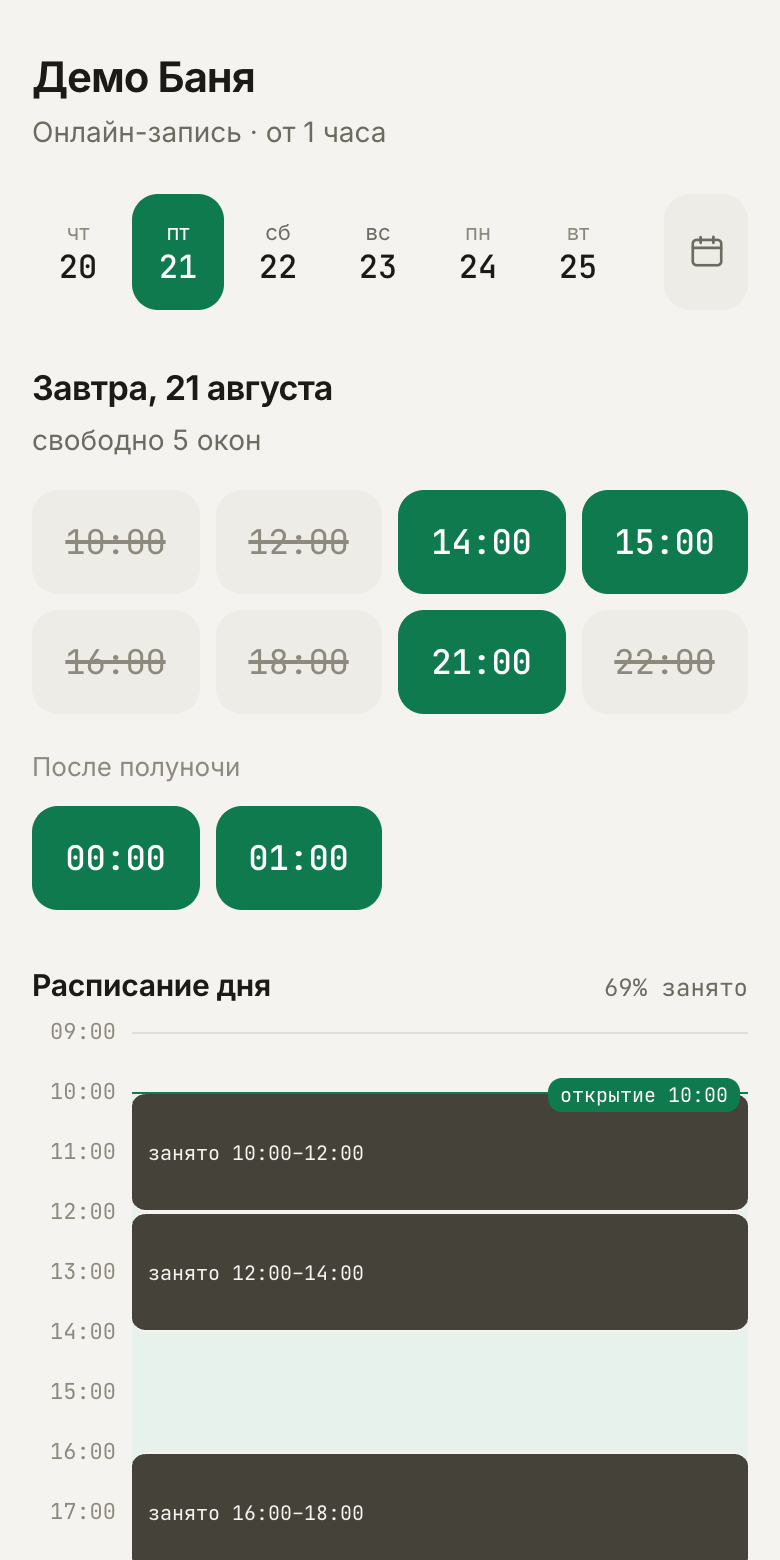
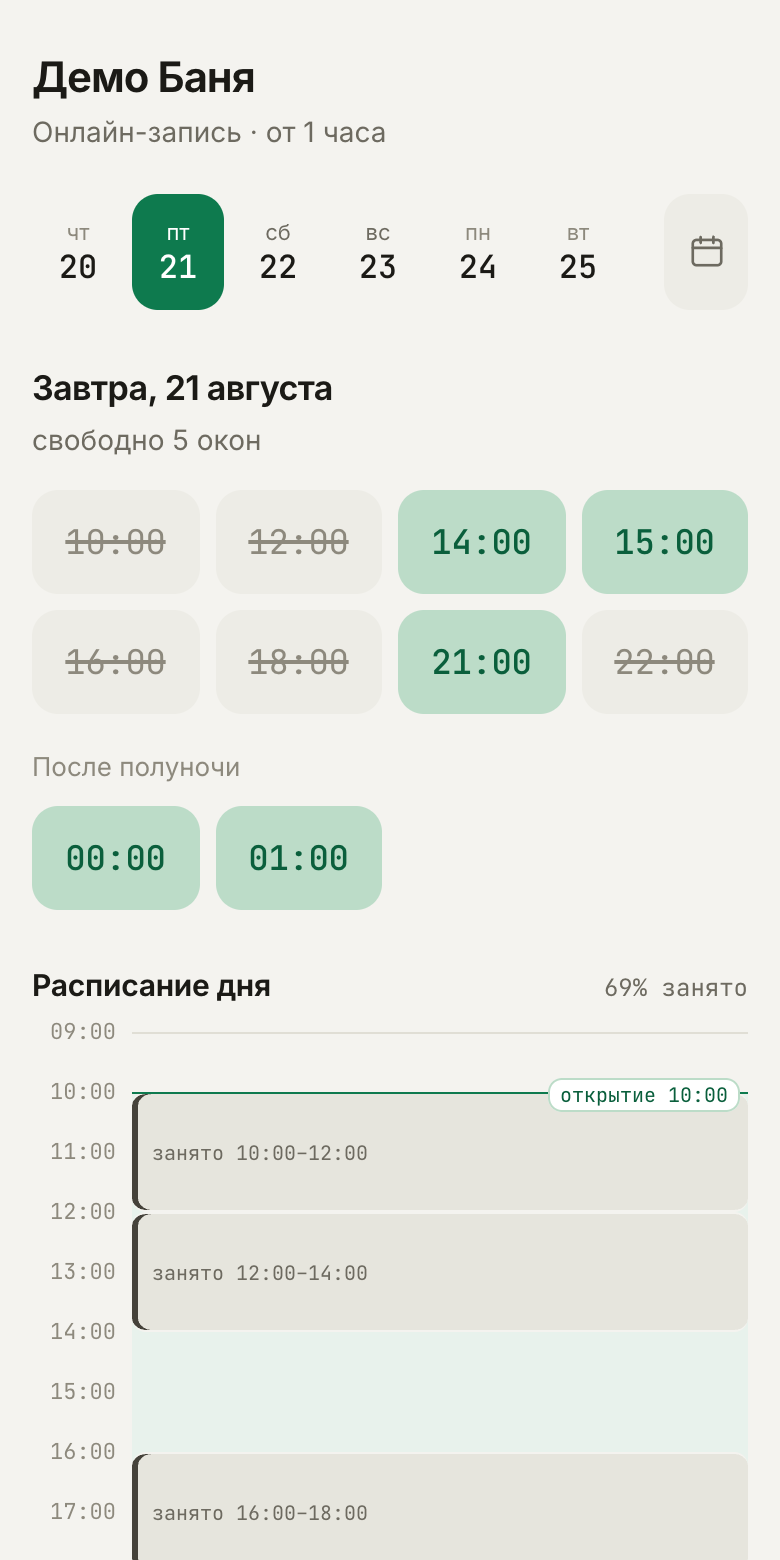
lighten the client page: contrast without weight
Предыдущая правка перелила краски. Контраст между свободным и занятым я
поднял сплошной заливкой акцентом — на четырнадцати чипах (после перехода
на часовой шаг их стало вдвое больше) страница превратилась в стену
зелёного, а занятое время в календаре — в чёрные плиты, перетягивающие на
себя весь экран.

Баланс не в плотности, а в светлоте и цвете текста:

- свободное время — светлая зелёная заливка с насыщенным зелёным временем;
  занятое — бледная бумага с зачёркнутым. Различие видно краем глаза, но
  страница остаётся бумагой, а не плашкой;
- занятое в календаре — плотная бумага с чернильной полосой слева, как в
  календаре владельца. Занятое время — не то, на что клиент должен смотреть;
- подписи открытия и закрытия стали светлыми: границу и так видно линией,
  а две сплошные зелёные плашки добавляли веса;
- «Нужно другое время» осталось кнопкой, но с нейтральной рамкой: акцентная
  спорила со свободным временем за внимание.

Сплошным акцентом теперь залиты ровно два элемента — выбранный день в
полосе дат и главная кнопка в листе бронирования. Это и есть иерархия.

Отдельно: десктопное правило для сетки чипов лежало в файле выше базового
и при равной специфичности проигрывало ему, поэтому чипы не увеличивались.
Перенесено в конец, к остальному адаптиву.

diff --git a/frontend/src/App.css b/frontend/src/App.css
@@ -35,6 +35,7 @@
     gap: 36px;
     align-items: start;
   }
+
 }
 
 .sr-only {
@@ -191,10 +192,12 @@
   gap: 8px;
 }
 
-/* Свободное время — единственное залитое место на странице, поэтому
-   рамка ему не нужна. Заливка сплошная, а не бледная: на светло-зелёном
-   свободное и занятое различались только оттенком и на глаз не разделялись,
-   а это главное действие страницы. */
+/* Свободное время. Баланс здесь искался дважды: бледная заливка не
+   отличалась от занятого, сплошной акцент на четырнадцати чипах превращал
+   страницу в стену зелёного. Работает середина — светлая зелёная заливка
+   плюс насыщенный цвет самого времени: различие держится на светлоте и
+   цвете текста, а не на плотности. Сплошным акцентом на странице залиты
+   только выбранный день и главная кнопка в листе. */
 .slot {
   display: flex;
   flex-direction: column;
@@ -205,14 +208,14 @@
   padding: 10px 6px;
   border: none;
   border-radius: var(--r);
-  background: var(--accent);
-  color: #fff;
+  background: var(--accent-line);
+  color: var(--accent-deep);
   font-family: inherit;
   cursor: pointer;
   transition: background var(--dur) var(--ease), transform var(--dur-fast) var(--ease);
 }
 
-.slot:hover { background: var(--accent-deep); }
+.slot:hover { background: var(--accent); color: #fff; }
 .slot:active { transform: scale(0.97); }
 
 .slot-time {
@@ -224,7 +227,7 @@
 
 .slot-hint {
   font-size: 0.75rem;
-  color: rgba(255, 255, 255, 0.82);
+  color: var(--accent);
 }
 
 /* Занятое время. Зачёркнутое читается как «нельзя» без единого слова, а
@@ -380,46 +383,51 @@
   left: 0;
   right: 0;
   height: 0;
-  border-top: 1.5px solid var(--accent);
+  border-top: 1px solid var(--accent);
   z-index: 3;
   pointer-events: none;
 }
 
+/* Подпись светлая, линия — цветная: сама граница и так видна линией,
+   а две сплошные зелёные плашки добавляли странице веса. */
 .cal-edge span {
   position: absolute;
   right: 4px;
   top: -8px;
   padding: 1px 6px;
   border-radius: var(--r-xs);
-  background: var(--accent);
-  color: #fff;
+  background: var(--card);
+  box-shadow: inset 0 0 0 1px var(--accent-line);
+  color: var(--accent-deep);
   font-family: var(--font-mono);
   font-size: 0.625rem;
   line-height: 1.5;
   white-space: nowrap;
 }
 
-/* Занято — плотный чернильный блок. Против светло-зелёного свободного это
-   максимальный контраст, какой есть в палитре. */
+/* Занято — плотная бумага с чернильной полосой слева, как в календаре
+   владельца. Чёрная плита читалась мгновенно, но перетягивала на себя весь
+   экран: занятое время — не то, на что клиент должен смотреть. */
 .cal-busy {
   position: absolute;
   left: 0;
   right: 0;
   display: flex;
   align-items: center;
-  padding: 2px 8px;
+  padding: 2px 8px 2px 10px;
   border-top: 1px solid var(--paper);
   border-bottom: 1px solid var(--paper);
   box-sizing: border-box;
   border-radius: var(--r-xs);
-  background: var(--ink-soft);
+  background: var(--paper-3);
+  box-shadow: inset 3px 0 0 var(--ink-soft);
   z-index: 2;
 }
 
 .cal-busy span {
   font-family: var(--font-mono);
   font-size: 0.625rem;
-  color: var(--paper);
+  color: var(--muted);
   white-space: nowrap;
   overflow: hidden;
   text-overflow: ellipsis;
@@ -453,26 +461,27 @@
   border-top: 1px solid var(--line);
 }
 
-/* Второй по важности призыв к действию: раньше он был текстовой ссылкой
-   между сеткой времени и календарём, и его не читали как кнопку. */
+/* Второй по важности призыв к действию: текстовой ссылкой его не читали
+   как кнопку, а акцентной рамкой он спорил со свободным временем. Рамка
+   нейтральная, площадь кнопочная — этого хватает. */
 .btn-quiet {
   display: block;
   width: 100%;
   min-height: var(--tap);
   padding: 13px 16px;
-  border: 1.5px solid var(--accent);
+  border: 1px solid var(--line-strong);
   border-radius: var(--r);
   background: var(--card);
-  color: var(--accent-deep);
+  color: var(--ink);
   font-family: inherit;
   font-size: 0.9375rem;
   font-weight: 600;
   cursor: pointer;
-  transition: background var(--dur) var(--ease), color var(--dur) var(--ease),
+  transition: background var(--dur) var(--ease), border-color var(--dur) var(--ease),
               transform var(--dur-fast) var(--ease);
 }
 
-.btn-quiet:hover { background: var(--accent-wash); }
+.btn-quiet:hover { background: var(--paper-2); border-color: var(--ink-soft); }
 .btn-quiet:active { transform: scale(0.99); }
 
 @media (min-width: 760px) {
@@ -1079,6 +1088,15 @@
 .doc a { color: var(--accent); }
 
 /* ── Адаптив ── */
+
+/* Десктоп. Стоит в конце файла осознанно: правила .slots и .slot заданы
+   выше без медиазапроса, и при равной специфичности побеждает то, что ниже. */
+@media (min-width: 760px) {
+  .slots,
+  .day-skeleton { grid-template-columns: repeat(auto-fill, minmax(102px, 1fr)); }
+
+  .slot { min-height: 58px; }
+}
 
 @media (max-width: 380px) {
   .page { padding: 22px 14px calc(24px + env(safe-area-inset-bottom)); }

diff --git a/docs/client-ux-review.md b/docs/client-ux-review.md
@@ -148,10 +148,18 @@
   видно закрытое время, и линия читается как граница, а не как край.
 - Часы вынесены в колонку слева. Внутри сетки подписи прятались под бронями
   и выглядели зачёркнутыми.
-- **Контраст.** Свободное время в сетке — сплошная заливка акцентом с белым
-  временем, занятое — бледная бумага с зачёркнутым. В календаре занятое —
-  плотный чернильный блок на светло-зелёном. До этого свободное и занятое
-  различались только оттенком и на глаз не разделялись.
+- **Контраст** искался в два приёма. Сначала свободное и занятое различались
+  только оттенком бледно-зелёного и бледно-серого — на глаз не разделялись.
+  Сплошная заливка акцентом это решила, но на четырнадцати чипах превратила
+  страницу в стену зелёного. Рабочая середина: светлая зелёная заливка плюс
+  насыщенный цвет самого времени, занятое — бледная бумага с зачёркнутым.
+  Различие держится на светлоте и цвете текста, а не на плотности.
+- **Сплошным акцентом на странице залиты только два элемента**: выбранный
+  день в полосе дат и главная кнопка в листе бронирования. Всё остальное
+  выражает состояние светлым тоном. Занятое в календаре — бумага с чернильной
+  полосой слева, как у владельца: чёрная плита читалась мгновенно, но
+  перетягивала на себя экран, а занятое время — не то, на что клиент должен
+  смотреть.
 - Сверху — доля занятого времени в процентах: одно число вместо
   разглядывания блоков.
 - **«Нужно другое время» стоит после всего расписания и выглядит кнопкой.**
